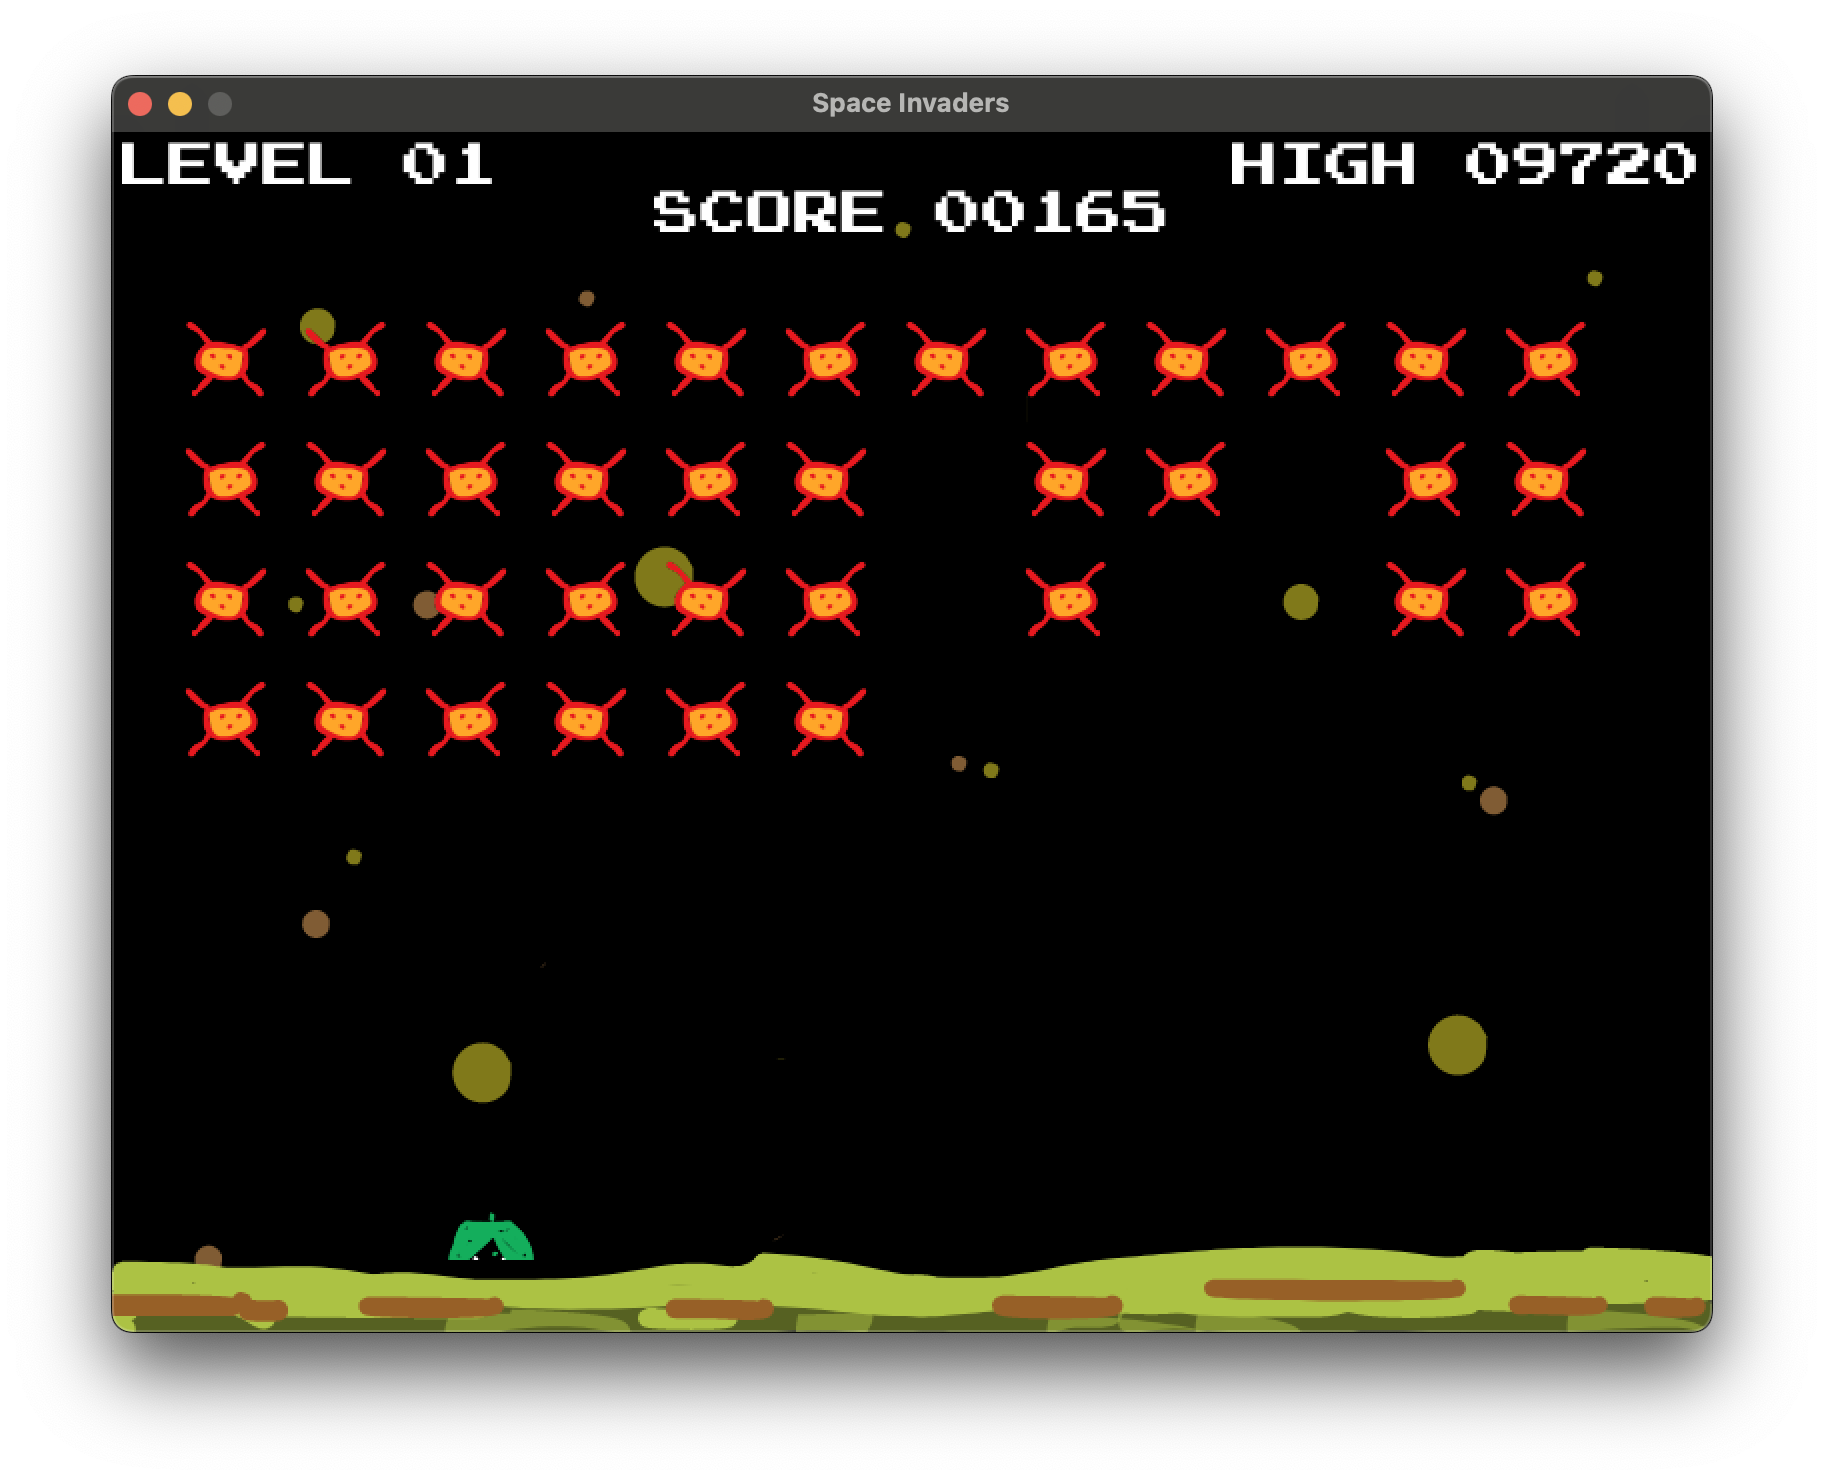
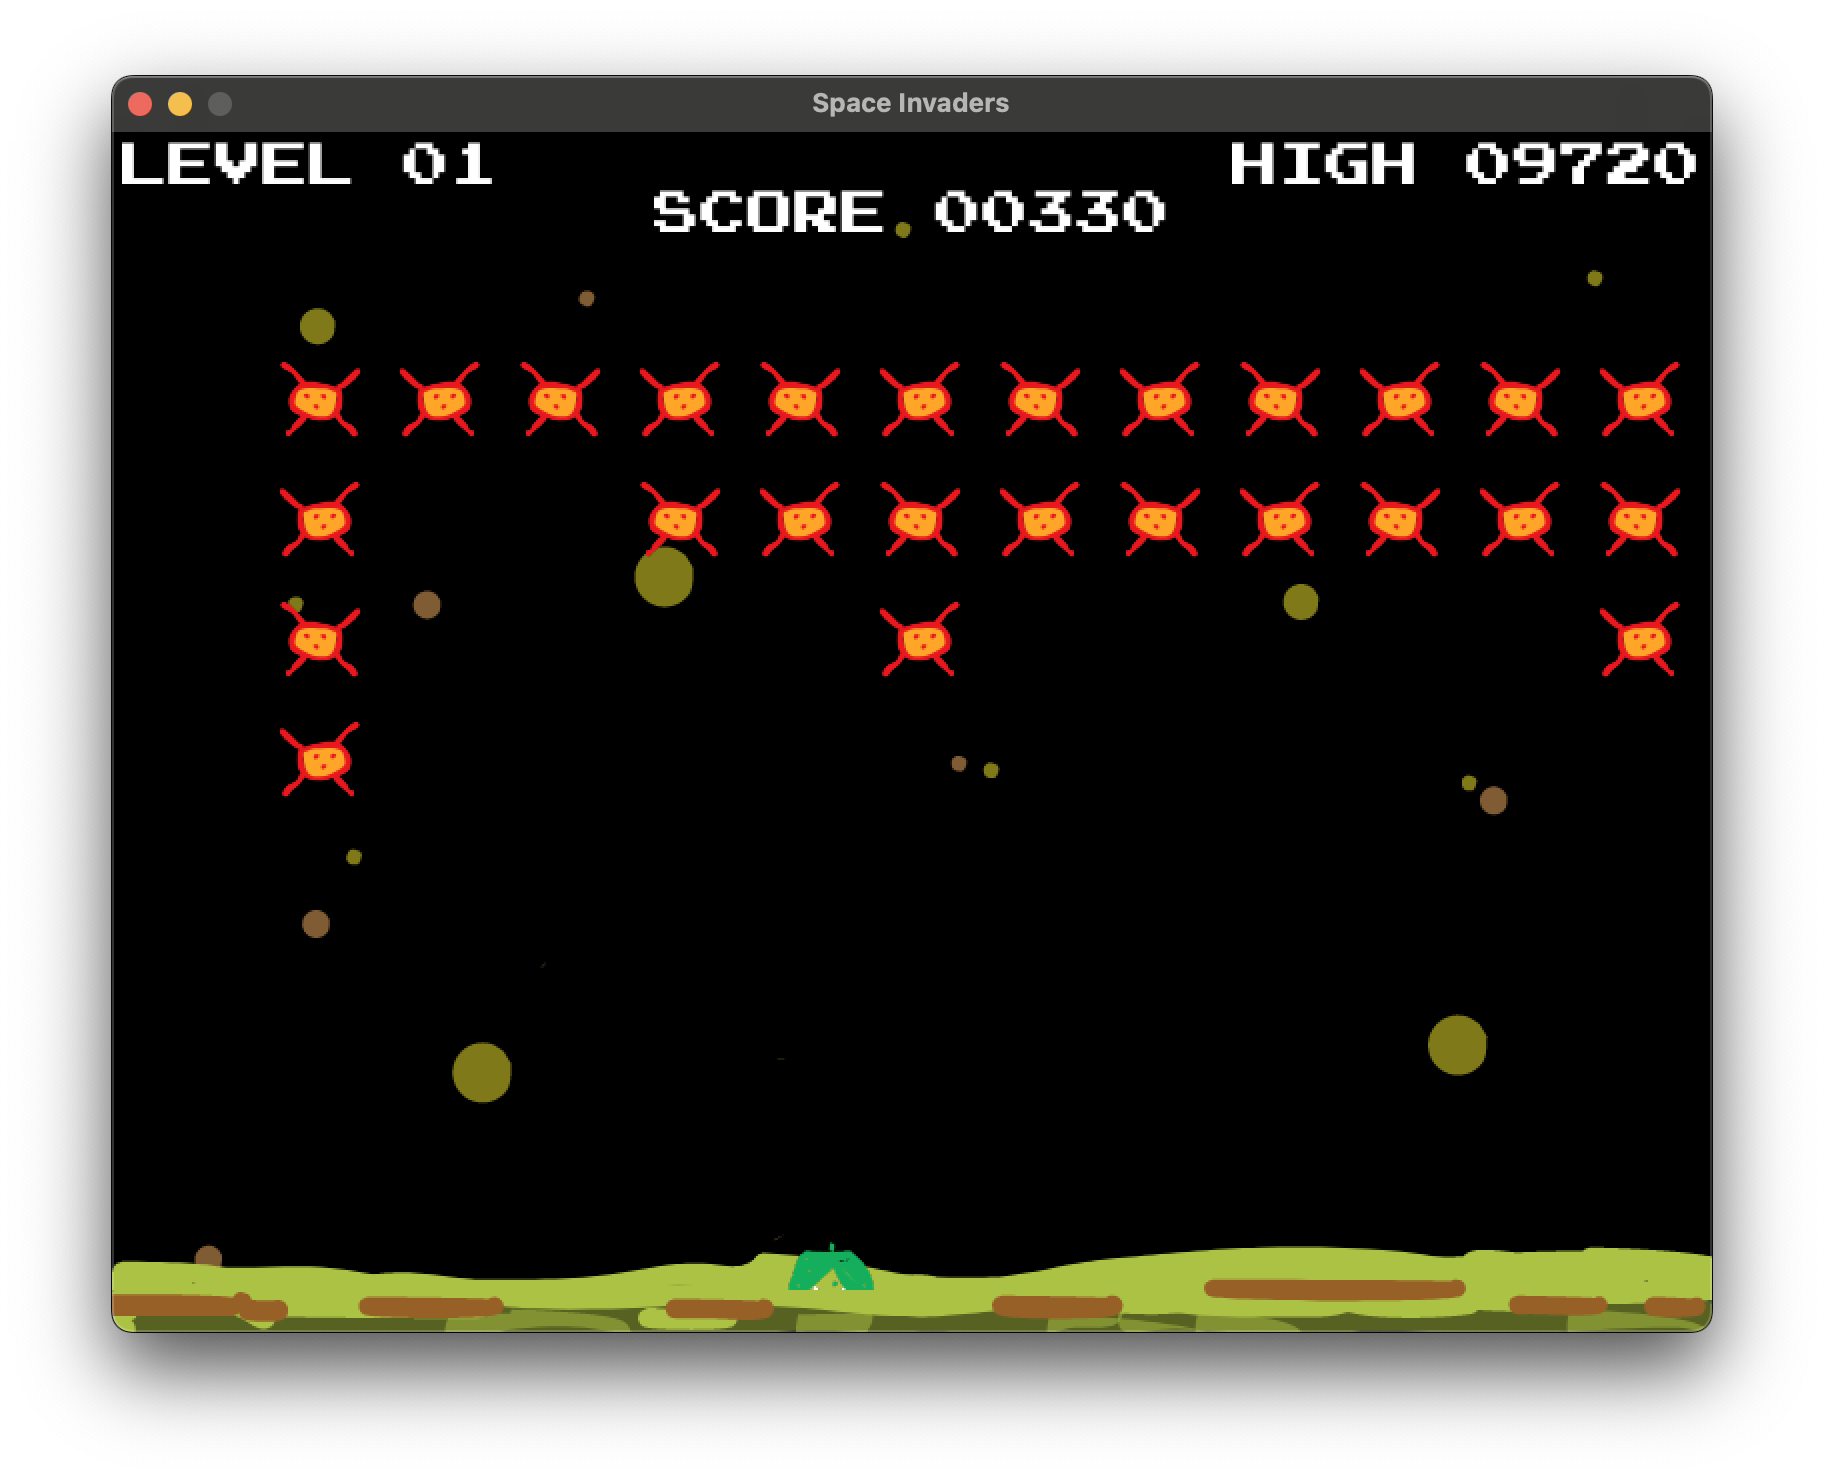
fix bottom border

diff --git a/components/alien.go b/components/alien.go
@@ -19,10 +19,13 @@ type AlienData struct {
 
 var Alien = donburi.NewComponentType[AlienData]()
 
-const xOffset = 60
-const xBorder = 10
-const yOffset = 60
-const yBorder = 60
+const (
+	xOffset       = 60
+	xBorder       = 10
+	yOffset       = 60
+	yBorderTop    = 60
+	yBorderBottom = 45
+)
 
 func NewAliens(w donburi.World, level, rows, columns int) error {
 	query := donburi.NewQuery(filter.Contains(Board))
@@ -38,7 +41,7 @@ func NewAliens(w donburi.World, level, rows, columns int) error {
 	for r := 0; r < rows; r++ {
 		for c := 0; c < columns; c++ {
 			choose := (r+c)%2 + 1
-			err := NewAlien(w, board, level, xBorder+c*xOffset, yBorder+r*yOffset, choose)
+			err := NewAlien(w, board, level, xBorder+c*xOffset, yBorderTop+r*yOffset, choose)
 			if err != nil {
 				return err
 			}

diff --git a/components/player.go b/components/player.go
@@ -23,7 +23,7 @@ func NewPlayer(w donburi.World) error {
 	be := Board.MustFirst(entry.World)
 	board := Board.Get(be)
 
-	Position.SetValue(entry, PositionData{x: board.Width / 2, y: board.Height - yBorder})
+	Position.SetValue(entry, PositionData{x: board.Width / 2, y: board.Height - yBorderBottom})
 	Velocity.SetValue(entry, VelocityData{x: 5, y: 0})
 	Render.SetValue(entry, RenderData{&SpriteData{image: GetImage("ship")}})
 	return nil
